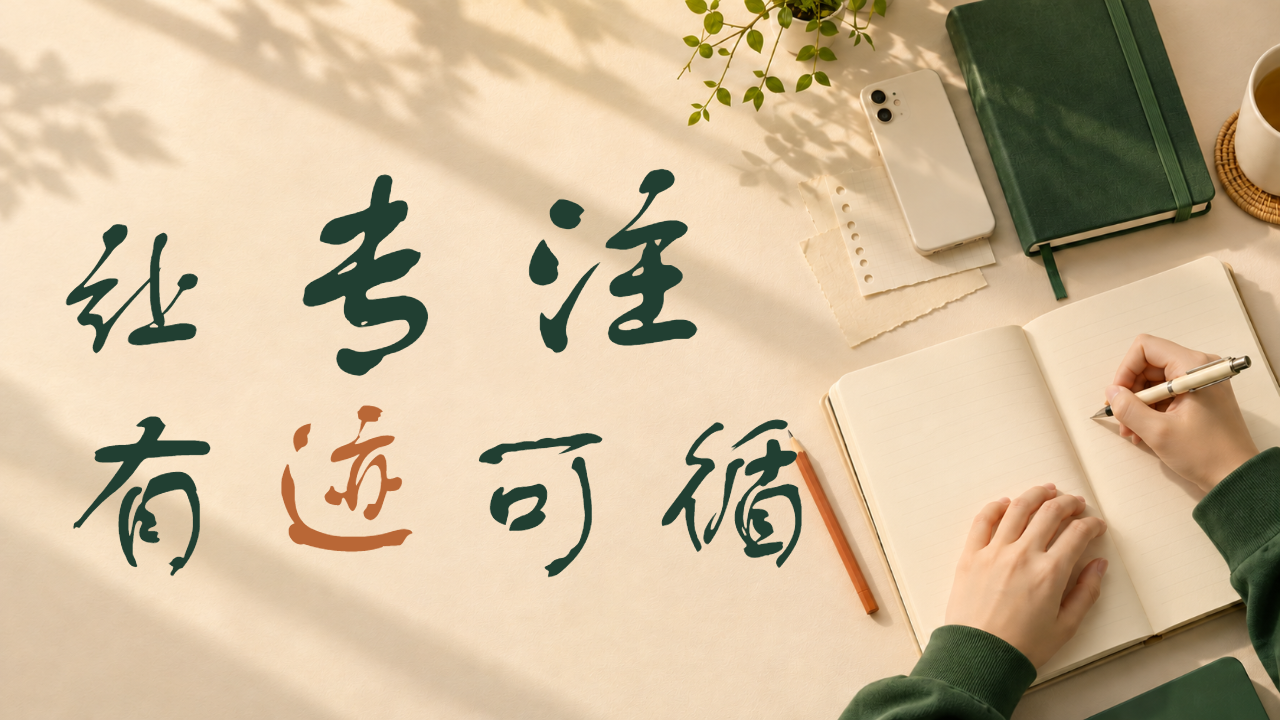
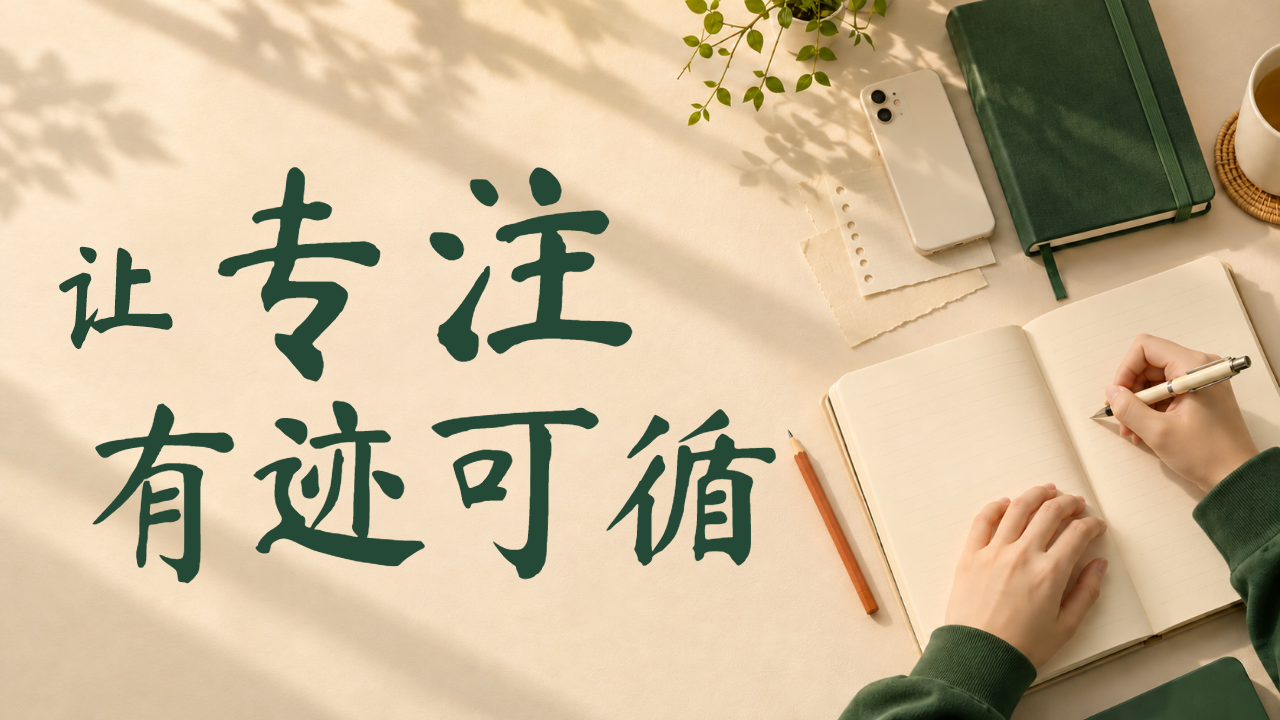
Refine brush lettering as a readable title composition

diff --git a/docs/experiments/cover-editability-review.md b/docs/experiments/cover-editability-review.md
@@ -2,7 +2,7 @@
 
 ## 用户要求与实际修改
 
-封面只留“让专注有迹可循”，七个字分别为可选择、编辑和上下移动的原生PPT文本框，不再展示功能说明。首版行楷横贯旧图，第二版沿用旧图改为两行宋体；用户否定第二版，明确要求重新生图与布局。随后通过原生image_gen生成全新的俯拍学习桌场景，并清理笔记本乱码；主视觉为右侧书写、背面朝上的手机与绿色笔记本。用户进一步指出优设标题黑没有所需笔锋，明确要求封面使用有笔锋的字体。当前保留新背景，对比华文行楷、方正舒体和楷体的实际渲染后，改用方正舒体；不加伪粗体或粗描边，保留原字形的起收、尖锋和粗细变化。
+封面只留“让专注有迹可循”，七个字分别为可选择、编辑和上下移动的原生PPT文本框，不再展示功能说明。首版行楷横贯旧图，第二版沿用旧图改为两行宋体；用户否定第二版，明确要求重新生图与布局。随后通过原生image_gen生成全新的俯拍学习桌场景，并清理笔记本乱码；主视觉为右侧书写、背面朝上的手机与绿色笔记本。用户指出优设标题黑缺少所需笔锋，后来仍认为方正舒体不够适配。当前候选改用Ma Shan Zheng手书，收紧字距、统一墨绿色，并保留“专注”的尺度重点；字体是否适配仍待用户判断，不以有笔锋或文件检查通过作为审美结论。
 
 此页仍为虚构概念单页，不能代表完整参赛作品或获奖水平，新视觉尚待用户审阅。可迁移的修正是：整体重做请求要重新规划素材和构图，不能被局部改稿的保留原图规则覆盖。
 
@@ -11,7 +11,7 @@
 ## 核验与边界
 
 - `scripts/title_editability_check.py` 对最终文件检查：七个顶层文本框各含一个标题字、顺序正确、无禁止选择或移动的锁定；本次同时检查顶层没有其他文字框。
[1 lines of base64/hex data omitted]
-- 当前PPTX结构检查和WPS兼容静态检查通过；未在WPS实机打开、编辑或放映，因此不能声称实机验证通过。方正舒体在作者电脑可用，但未嵌入文件，目标设备缺少该字体时可能替换。
[1 lines of base64/hex data omitted]
+- 当前PPTX结构检查和WPS兼容静态检查通过；未在WPS实机打开、编辑或放映。Ma Shan Zheng从Google Fonts官方仓库取得，在渲染进程内加载，但未安装到系统或嵌入PPTX。项目本地交付包附原字体与OFL许可；打开PPTX前需安装字体。仓库保留[字体来源与哈希](../../directions/01-创赛/examples/大字封面-字体来源.json)，不把渲染预览的正确字形当成目标WPS已支持的证明。
 - 逐字检查脚本加入时全部脚本单元测试共67项通过，其中新增6项覆盖单字文本框、文字顺序、多字合框、附加文字、锁定对象及无效文件/页码。本次仅改版式、文档和示例，未修改脚本；对新文件重新执行逐字检查与WPS静态检查，不以旧测试记录代替新文件核验。
 - 预览经过人工查看；结构检查不判断审美，也不检测背景图片中可能存在的文字。原来的[概念定位示例](../../directions/01-创赛/examples/概念定位示例.pptx)保留为历史定位页，不是此次“只留标题”要求的最终封面。

diff --git a/references/用户偏好与反馈沉淀.md b/references/用户偏好与反馈沉淀.md
@@ -15,7 +15,7 @@
 - 创赛重要内容页应饱满：准备足够的主视觉、辅图、机制、证据和标注，组织清楚主次与空间层次，不能以大留白和少量通用卡片代替设计。细节装饰可建立气氛，但不以固定元素数量判定好看；其他方向按自身用途选视觉密度。详见[创赛视觉](../directions/01-创赛/视觉.md)。
 - 创赛封面优先使用几乎横贯画面的超大艺术字作为主标题，并精修字形、字距与图片融合；普通粗体放大不算完成。实际风格、用户新参考和可读性优先，不把艺术字强制用于所有封面，亦可用于其他页面。
 - 艺术标题默认每个字均为独立可编辑的PPT原生文本框，能单独上下移动；不要用整句或逐字PNG代替，用户明确要求字图时例外。封面去掉功能步骤、冗余说明和不必要标签，仅保留用户需要的标题、背景与必要身份信息。
-- 封面要检查字体与整张背景的气质、明暗和构图关系。当前用户创赛封面的标题必须有明显笔锋：能看到起收、尖锋及粗细变化；无笔锋的粗黑体、普通宋体放大不满足要求。大字可分行利用留字区，避免横压人脸或关键产品界面；用户指出不协调时，在满足笔锋要求的前提下换字形或构图并查看实际渲染，不静默取消笔锋。
+- 封面要检查字体与整张背景的气质、明暗和构图关系。当前用户创赛封面的标题必须有明显笔锋：能看到起收、尖锋及粗细变化；无笔锋的粗黑体、普通宋体放大不满足要求。有笔锋仍须检查整句辨识与题材适配；逐字独立文本框不能机械摆成等宽等距单字，按字形调整疏密和重心。用户指出不协调时，在保留笔锋的前提下比较字形和组合的实际渲染，不用“已选书法字体”作为验收理由。
 - 用户明确要求“重新生图、重新布局”时，应从主题、主视觉与标题空间一起重做；不能延续旧图，仅改字体和文字位置后声称已重构。只要求修边或保留已认可图片时才延续原图，当前明确要求优先。
 - 五类用途采用独立的问答、制作顺序、页型和评价；不能只改页数、栏目或颜色后仍调用同一套模板。按主要用途和观众判断/行动选择方向，见[入口](../SKILL.md)。
 - 指定WPS时保留可编辑正文、嵌入项目自产素材，并区分写入文件、静态检查和WPS实机放映验证。兼容性不是取消视觉设计的理由。

diff --git a/directions/01-创赛/GUIDE.md b/directions/01-创赛/GUIDE.md
@@ -40,7 +40,7 @@
 
 另有实际排版的[概念定位页预览](examples/概念定位示例.png)与[可编辑单页PPTX](examples/概念定位示例.pptx)：同一校园专注主题以产品概念和功能设想组织，背景为原生生图、文字为PPT对象。该页是虚构示例，只演示场景与标题融合，不能证明技术机制、验证结果或国赛水平；它不是完整项目作品。PPTX已完成结构及WPS静态检查，未在WPS实机放映。
 
-用户要求标题要大、有笔锋、逐字可调、不要功能说明，并明确要求重新生图和布局，现提供全新背景配笔锋标题的[大字封面预览](examples/大字封面-逐字文本框.png)和[可编辑封面PPTX](examples/大字封面-逐字文本框.pptx)。七个标题字各为独立原生文本框，新背景为俯拍桌面与右侧书写场景，两行方正舒体大字占据主要留白；[原生生图记录](examples/大字封面-生图记录.json)包含生成和清理笔记本乱码的提示词。该页是虚构单页示例，新视觉尚待用户审阅，不要求每个项目照搬此构图或字体。未在WPS实机验证，使用的方正舒体未嵌入文件；使用时须核对目标设备字体。
+用户要求标题要大、有笔锋、逐字可调、不要功能说明，并明确要求重新生图和布局，现提供全新背景配手书标题的[大字封面候选预览](examples/大字封面-逐字文本框.png)和[可编辑封面PPTX](examples/大字封面-逐字文本框.pptx)。七个字各为独立原生文本框；当前候选使用Ma Shan Zheng，按字形收紧组合并统一墨绿色，背景仍为新生成的俯拍桌面。[原生生图记录](examples/大字封面-生图记录.json)包含背景生成与清理提示词；[字体来源](examples/大字封面-字体来源.json)记录官方文件、许可与哈希。该页是虚构单页，当前视觉尚未获得用户认可，不要求其他项目照搬构图或字体。字体未嵌入，未在系统中安装，也未进行WPS实机验证；打开样例前须按来源文件取得并安装所需字体。
 
 ## 本类验收
 

diff --git a/directions/01-创赛/视觉.md b/directions/01-创赛/视觉.md
@@ -33,6 +33,8 @@
 
 先根据场景的题材、光线和气质选择字形，再在实际底图上排版。**本用户当前创赛封面的主标题必须有明显笔锋**：实看起笔、收笔及撇捺的尖锋、提按与粗细变化，不能用放大的粗黑体、普通宋体、伪斜体或粗描边代替；不固定某一款字体。大标题应利用图像的留字区，按需分行，避开人物面部、产品关键界面和证据；不能为了接近满屏而单行横压主体。用户指出“不搭”时，在满足笔锋要求的前提下对比字形与构图，不擅自改成无笔锋字体。
 
+有笔锋只是必要条件，还要检查整句辨识、题材气质和字形轻重。逐字独立文本框是编辑要求，不是等宽等距的排版要求；按实际笔画外轮廓、字面大小和重心调整字距、字号与上下关系，让标题读成词组。用户仍认为不适配时，重新比较完整标题在实际背景上的效果，不以字体名称或“已有笔锋”代替视觉判断。
+
 先设计结构：字形、笔画、字距、字重、颜色/质感和与场景的层次，再用原生文字实现。**艺术标题默认每字都是独立、可编辑、可上下移动的PPT文本框；整句图片、逐字图片和只在备注保留文字都不满足，用户明确要求字图时除外。** 调整各字基线、大小与疏密形成艺术感，同时核对字体是否存在以及WPS实际字体替换。简单放大普通字体、粗描边或厚重金属渐变不算艺术字设计；用户否定过的字形应更换方向。长项目名可保留完整副标题，不得擅自杜撰简称。用户明确要求其他风格、参考构图或艺术字影响可读性时按实际调整；艺术字不是所有封面的硬性规定。
 
 封面以标题和项目画面为主，只保留用户要求或识别项目确需的短副标题/标识；功能清单、过程步骤、说明段落及无关标签移到后续页面或讲稿。用户明确要求只有标题时，封面不额外加入这些文字。
